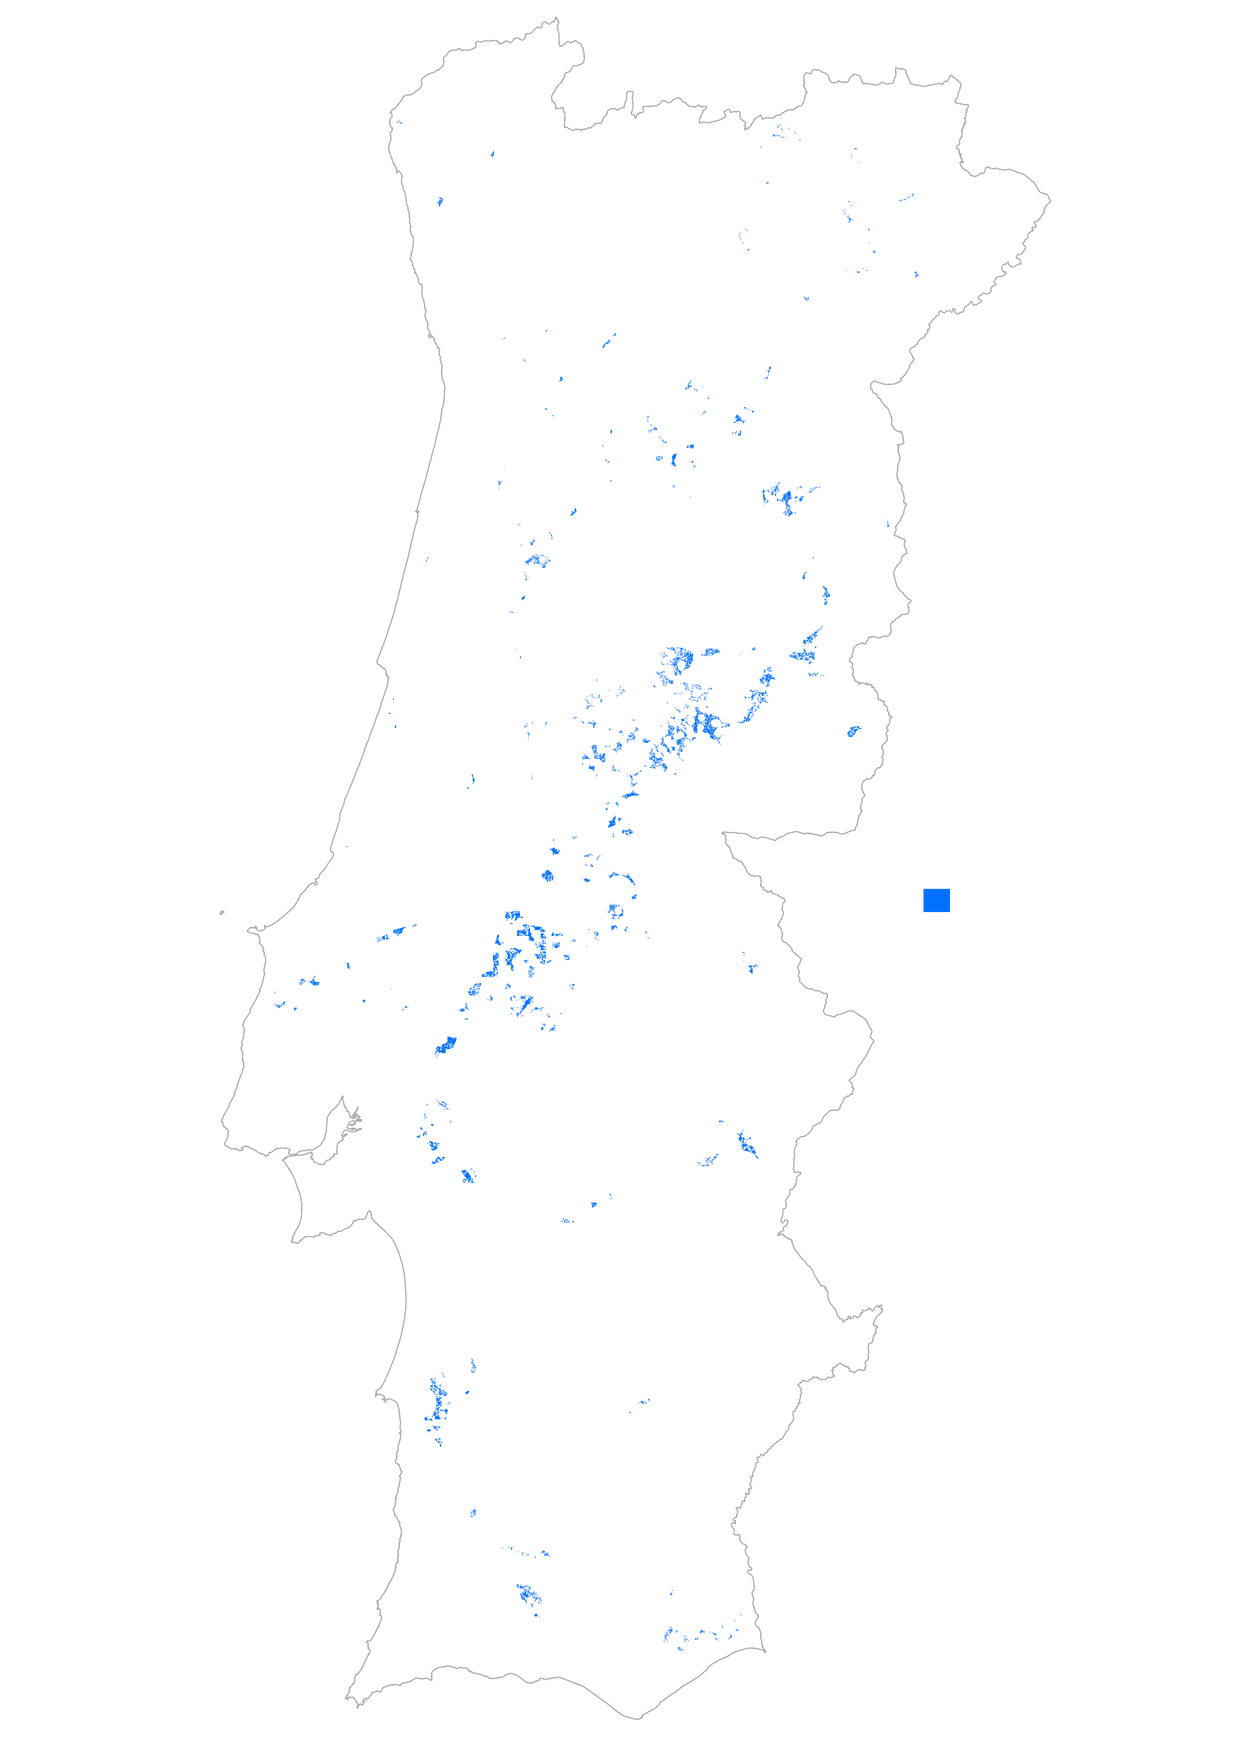
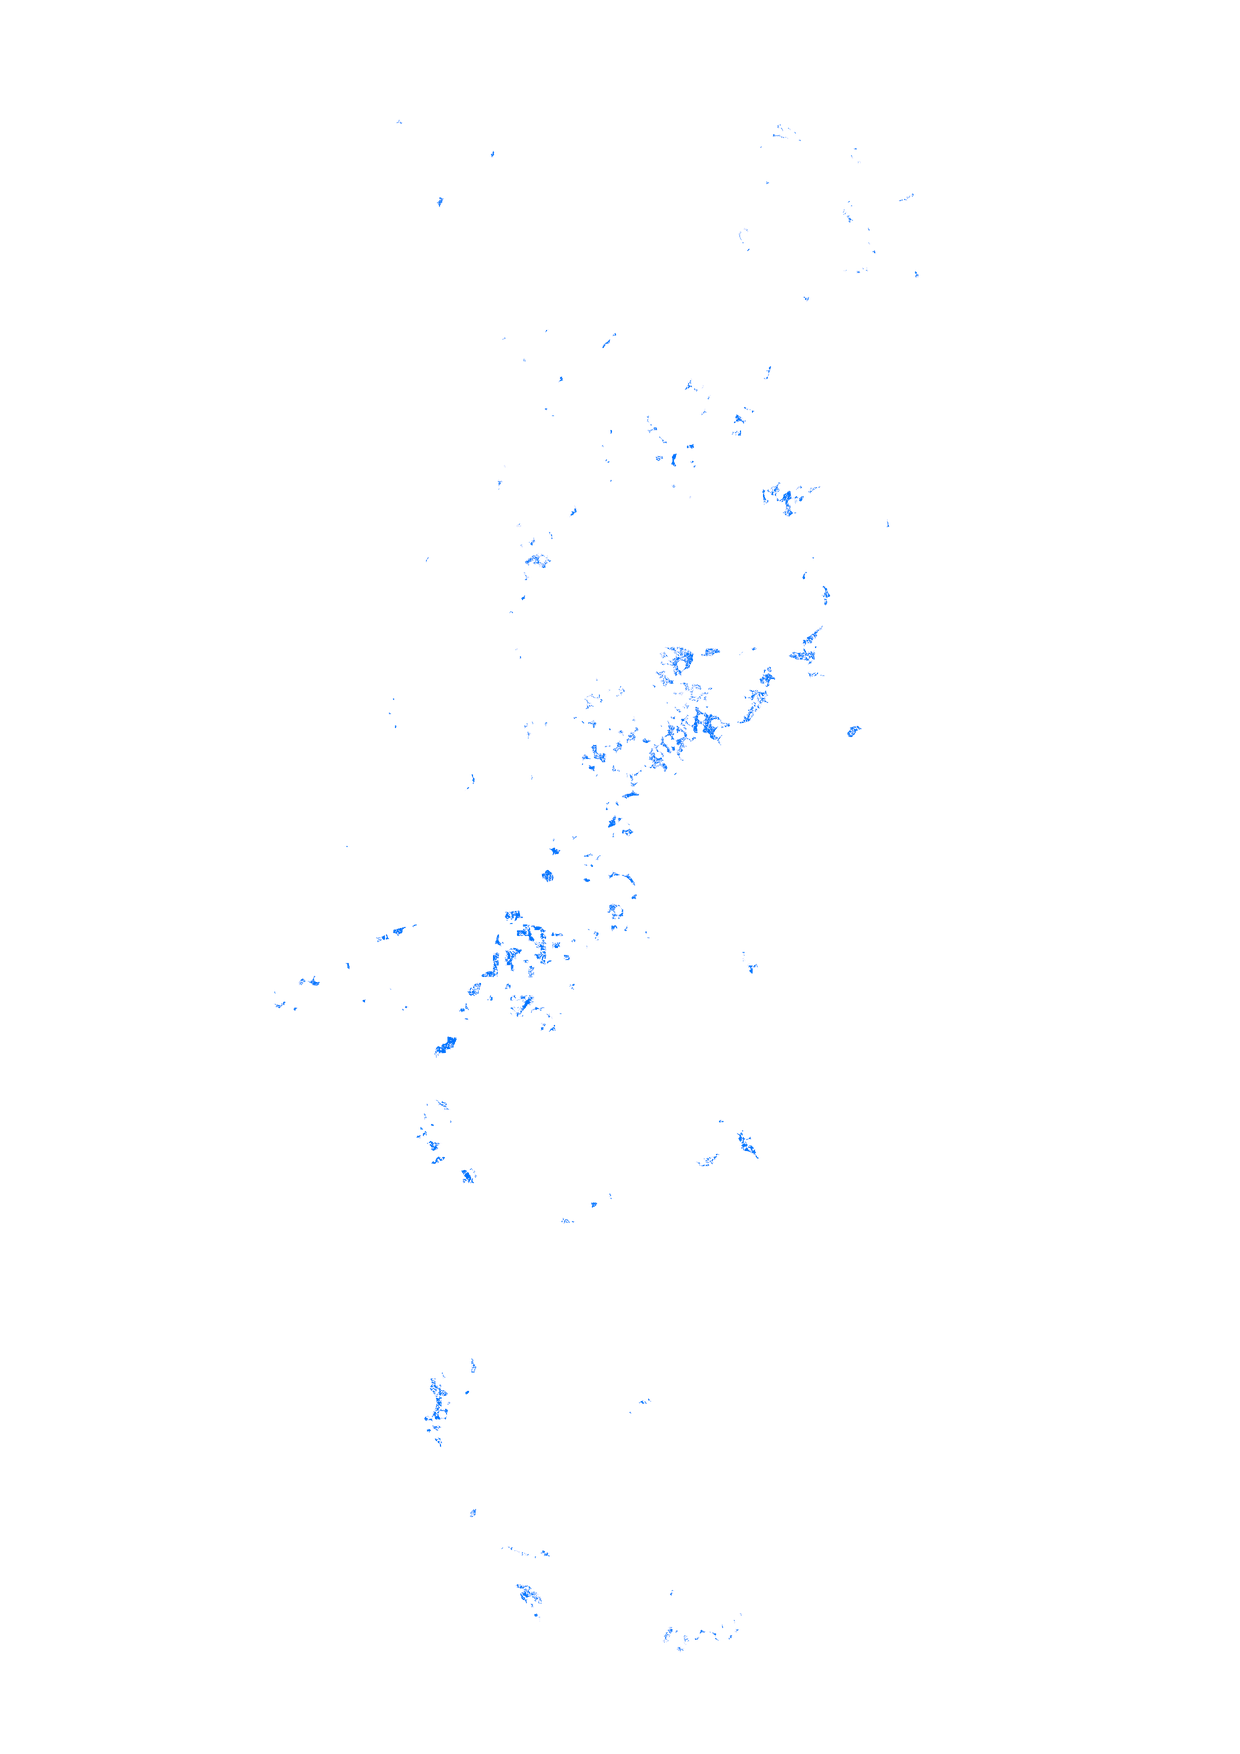
Fix duplicated ZAER map overlays

Changed region(s): [[0.7355, 0.4926, 0.7661, 0.5234], [0.2758, 0.6157, 0.3065, 0.6465]]

diff --git a/zaer.html b/zaer.html
@@ -211,9 +211,9 @@ L.tileLayer('https://{s}.basemaps.cartocdn.com/light_all/{z}/{x}/{y}{r}.png', {
 /* These two PNGs were pre-warped in Python (bilinear resampling from
    the original raster into a plain equirectangular WGS84 grid, using
    an affine transform calibrated against the real ETRS89/PT-TM06
-   boundary of mainland Portugal). Because the correction is baked
-   into the image itself, a plain two-corner Leaflet imageOverlay is
-   enough — no custom rotation/transform code needed on the JS side. */
+   boundary of mainland Portugal). They deliberately contain only the
+   coloured ZAER areas: the Carto basemap remains the single source of
+   country borders and labels, avoiding a misaligned duplicate outline. */
 const imgBounds = [[36.70, -9.65], [42.40, -6.05]];
 
 const solarLayer  = L.imageOverlay('assets/zaer_solar_overlay.png',  imgBounds, {opacity:0.85});
